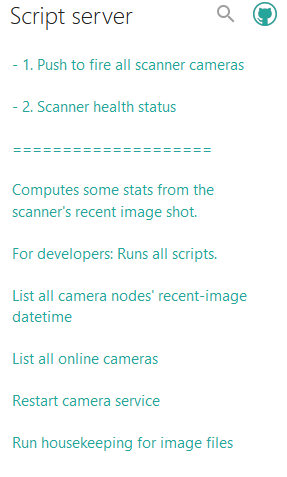
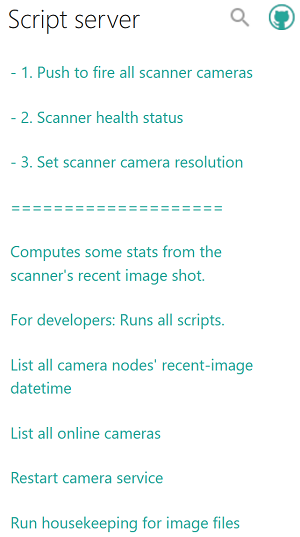
Update UI manual with new functions

diff --git a/docs/user_manual.md b/docs/user_manual.md
@@ -30,6 +30,7 @@ The user interface depicted in the image below displays two groups of functions 
 
 * **Push to fire all scanner cameras:** click and execute this function to fire all scanner cameras and download the images from http://CENTRALNODE/ (same URL as the user interface, but without the `/ui` at the end)
 * **Scanner health status:** It checks the connection to the scanner and counts ready cameras nodes and other relevant status information. You may run this to check for your information before starting a series of taking images with the scanner.
+* **Set scanner camera resolution:** It provides a pull down menu with available resolutions when taking images. It sets then all scanner cameras to the selected resolution.
 
 Other functions in the group below the separator are primarily to monitor and maintain technical aspects of the scanner. Use with caution and only when asked to do so by the developer. Later software revisions may hide these functions.
 
@@ -75,6 +76,15 @@ Finally, the output displays the following success message about the number of i
 The health status check performs various tests of the scanner components. The screenshot below displays a successful health status check. Please note the lines in the output starting with word `[SUCCESS]`.  
 
 ![scanner health status](images/health_status_success.png)
+
+### Set Camera Resolution
+
+The end-user selects the available camera resolution from a pull-down menu. Hitting the `Execute` button configures all camera nodes using the selected resolution. The `Reset resolution to default` checkbox ignores the selected resolution and sets the resolution to the factory default.
+
+**Note:** The currently used camera resolution for each camera node is shown by the [scanner's health status](#scanner-health-status).
+
+![set camera resolution](images/set_camera_resolution.png)
+
 
 ### Compute Image Statistics
 
